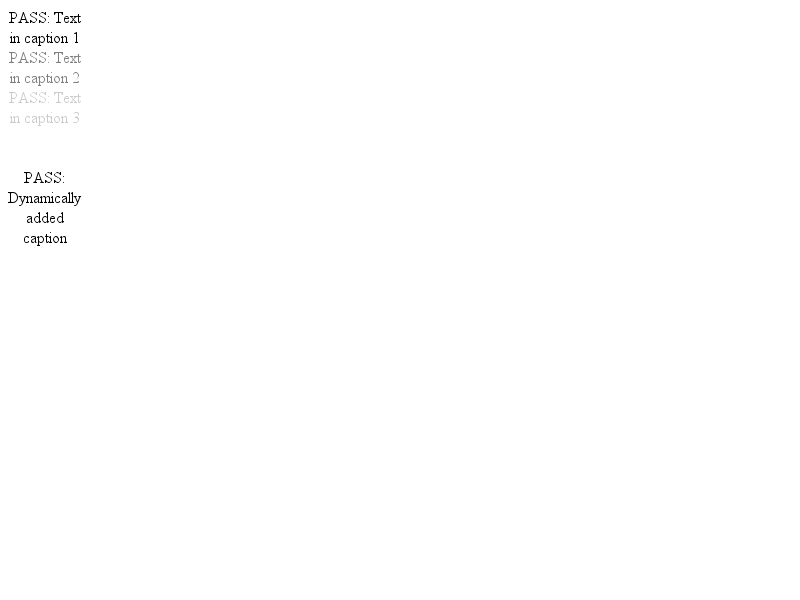
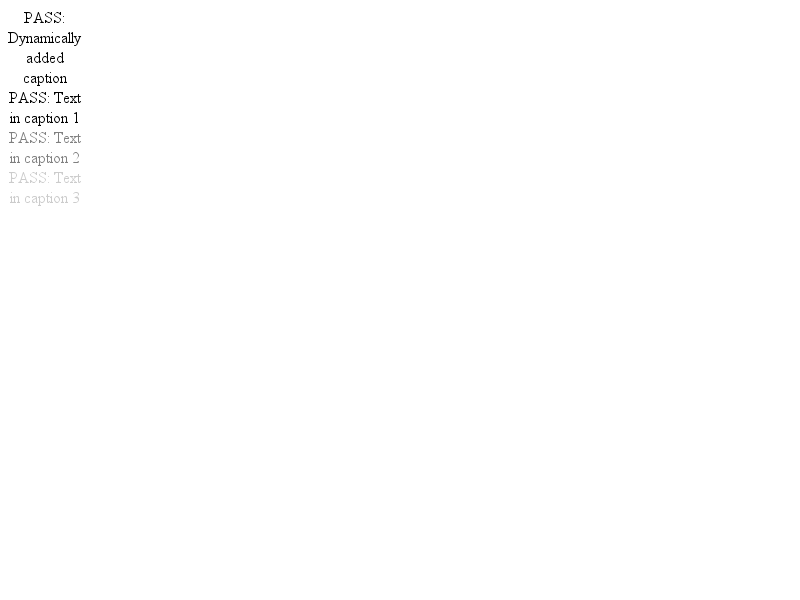
XMLDocumentParser should lazy attach.
import-non-document-node.xml: whitespace text node change.
dynamic-caption-add-before-child.xhtml: this is a progression.
svg/custom/resource-invalidation-crash.svg: not clear what's going on here,
but since this is just testing for a crash with some weird patterns,
just filing a bug for now. crbug.com/284881

BUG=276689
R=eseidel@chromium.org

Review URL: https://codereview.chromium.org/23779004

git-svn-id: svn://svn.chromium.org/blink/trunk@157175 bbb929c8-8fbe-4397-9dbb-9b2b20218538

Changed region(s): [[0.0, 0.0, 0.0938, 0.42]]

diff --git a/Source/core/xml/parser/XMLDocumentParser.cpp b/Source/core/xml/parser/XMLDocumentParser.cpp
@@ -373,7 +373,7 @@ void XMLDocumentParser::enterText()
     ASSERT(m_bufferedText.size() == 0);
     ASSERT(!m_leafTextNode);
     m_leafTextNode = Text::create(&m_currentNode->document(), "");
-    m_currentNode->parserAppendChild(m_leafTextNode.get(), DeprecatedAttachNow);
+    m_currentNode->parserAppendChild(m_leafTextNode.get());
 }
 
 void XMLDocumentParser::exitText()
@@ -384,7 +384,7 @@ void XMLDocumentParser::exitText()
     if (!m_leafTextNode)
         return;
 
-    m_leafTextNode->appendData(toString(m_bufferedText.data(), m_bufferedText.size()), DeprecatedAttachNow);
+    m_leafTextNode->appendData(toString(m_bufferedText.data(), m_bufferedText.size()));
     m_bufferedText.clear();
     m_leafTextNode = 0;
 }
@@ -985,7 +985,7 @@ void XMLDocumentParser::startElementNs(const AtomicString& localName, const Atom
     if (scriptLoader)
         m_scriptStartPosition = textPosition();
 
-    m_currentNode->parserAppendChild(newElement.get(), DeprecatedAttachNow);
+    m_currentNode->parserAppendChild(newElement.get());
 
     const ContainerNode* currentNode = m_currentNode;
     if (newElement->hasTagName(HTMLNames::templateTag))
@@ -1139,7 +1139,7 @@ void XMLDocumentParser::processingInstruction(const String& target, const String
 
     pi->setCreatedByParser(true);
 
-    m_currentNode->parserAppendChild(pi.get(), DeprecatedAttachNow);
+    m_currentNode->parserAppendChild(pi.get());
 
     pi->finishParsingChildren();
 
@@ -1163,7 +1163,7 @@ void XMLDocumentParser::cdataBlock(const String& text)
     exitText();
 
     RefPtr<CDATASection> newNode = CDATASection::create(&m_currentNode->document(), text);
-    m_currentNode->parserAppendChild(newNode.get(), DeprecatedAttachNow);
+    m_currentNode->parserAppendChild(newNode.get());
 }
 
 void XMLDocumentParser::comment(const String& text)
@@ -1179,7 +1179,7 @@ void XMLDocumentParser::comment(const String& text)
     exitText();
 
     RefPtr<Comment> newNode = Comment::create(&m_currentNode->document(), text);
-    m_currentNode->parserAppendChild(newNode.get(), DeprecatedAttachNow);
+    m_currentNode->parserAppendChild(newNode.get());
 }
 
 enum StandaloneInfo {
@@ -1222,7 +1222,7 @@ void XMLDocumentParser::internalSubset(const String& name, const String& externa
     }
 
     if (document())
-        document()->parserAppendChild(DocumentType::create(document(), name, externalID, systemID), DeprecatedAttachNow);
+        document()->parserAppendChild(DocumentType::create(document(), name, externalID, systemID));
 }
 
 static inline XMLDocumentParser* getParser(void* closure)
